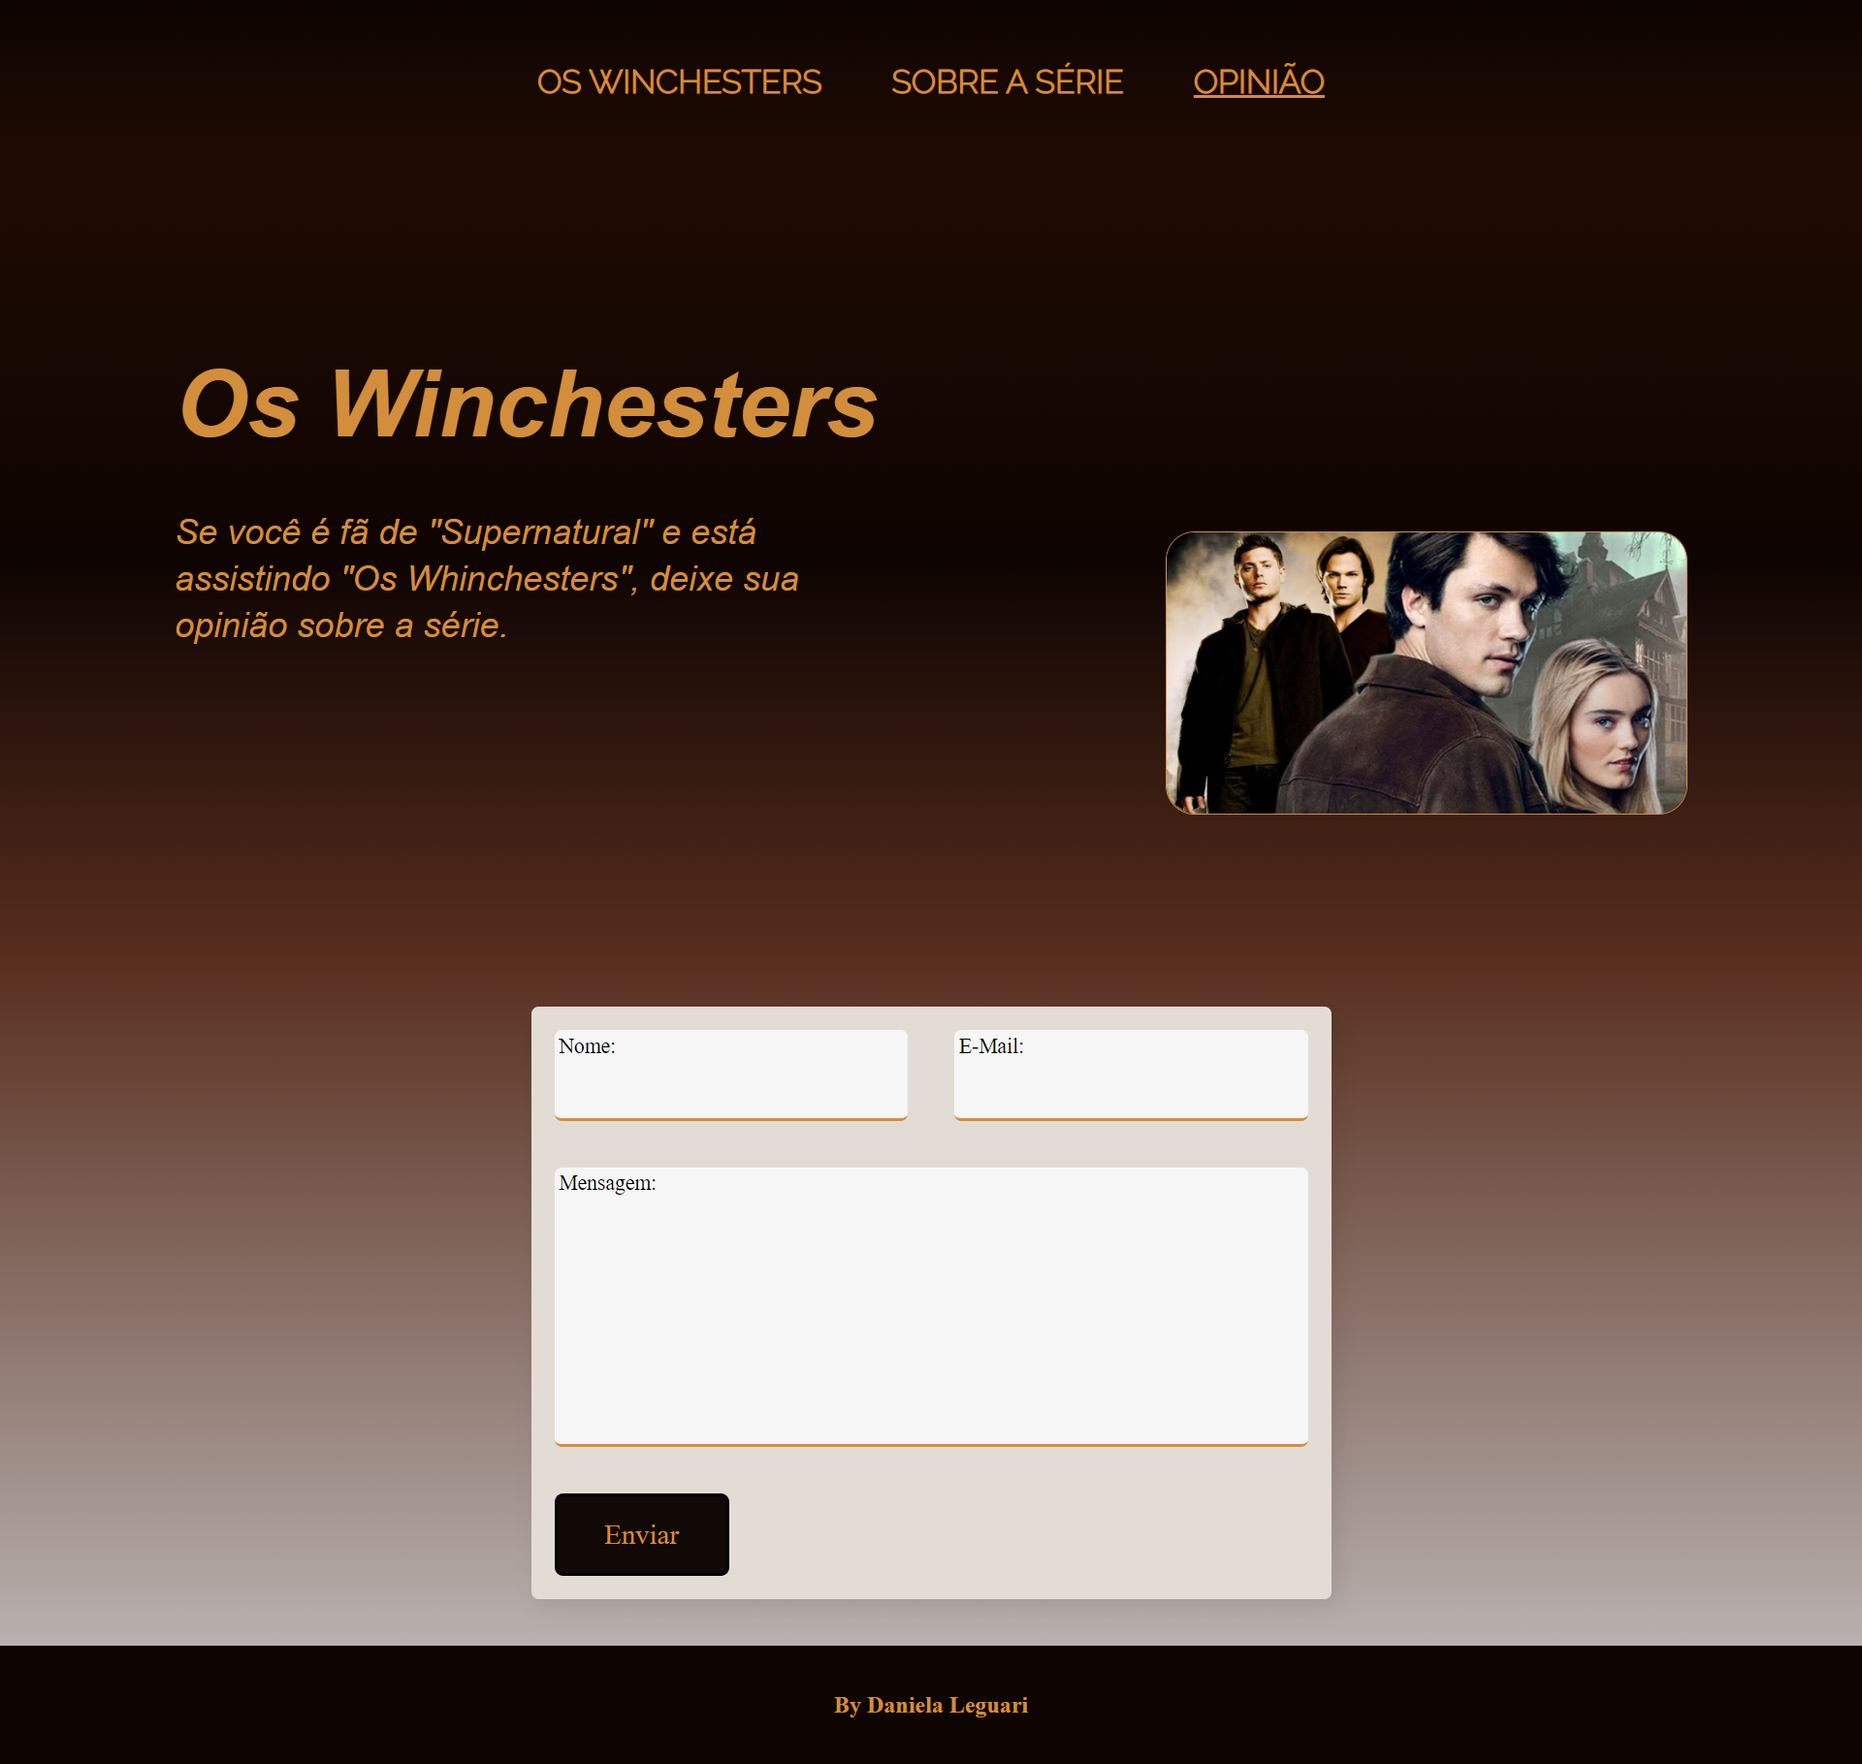
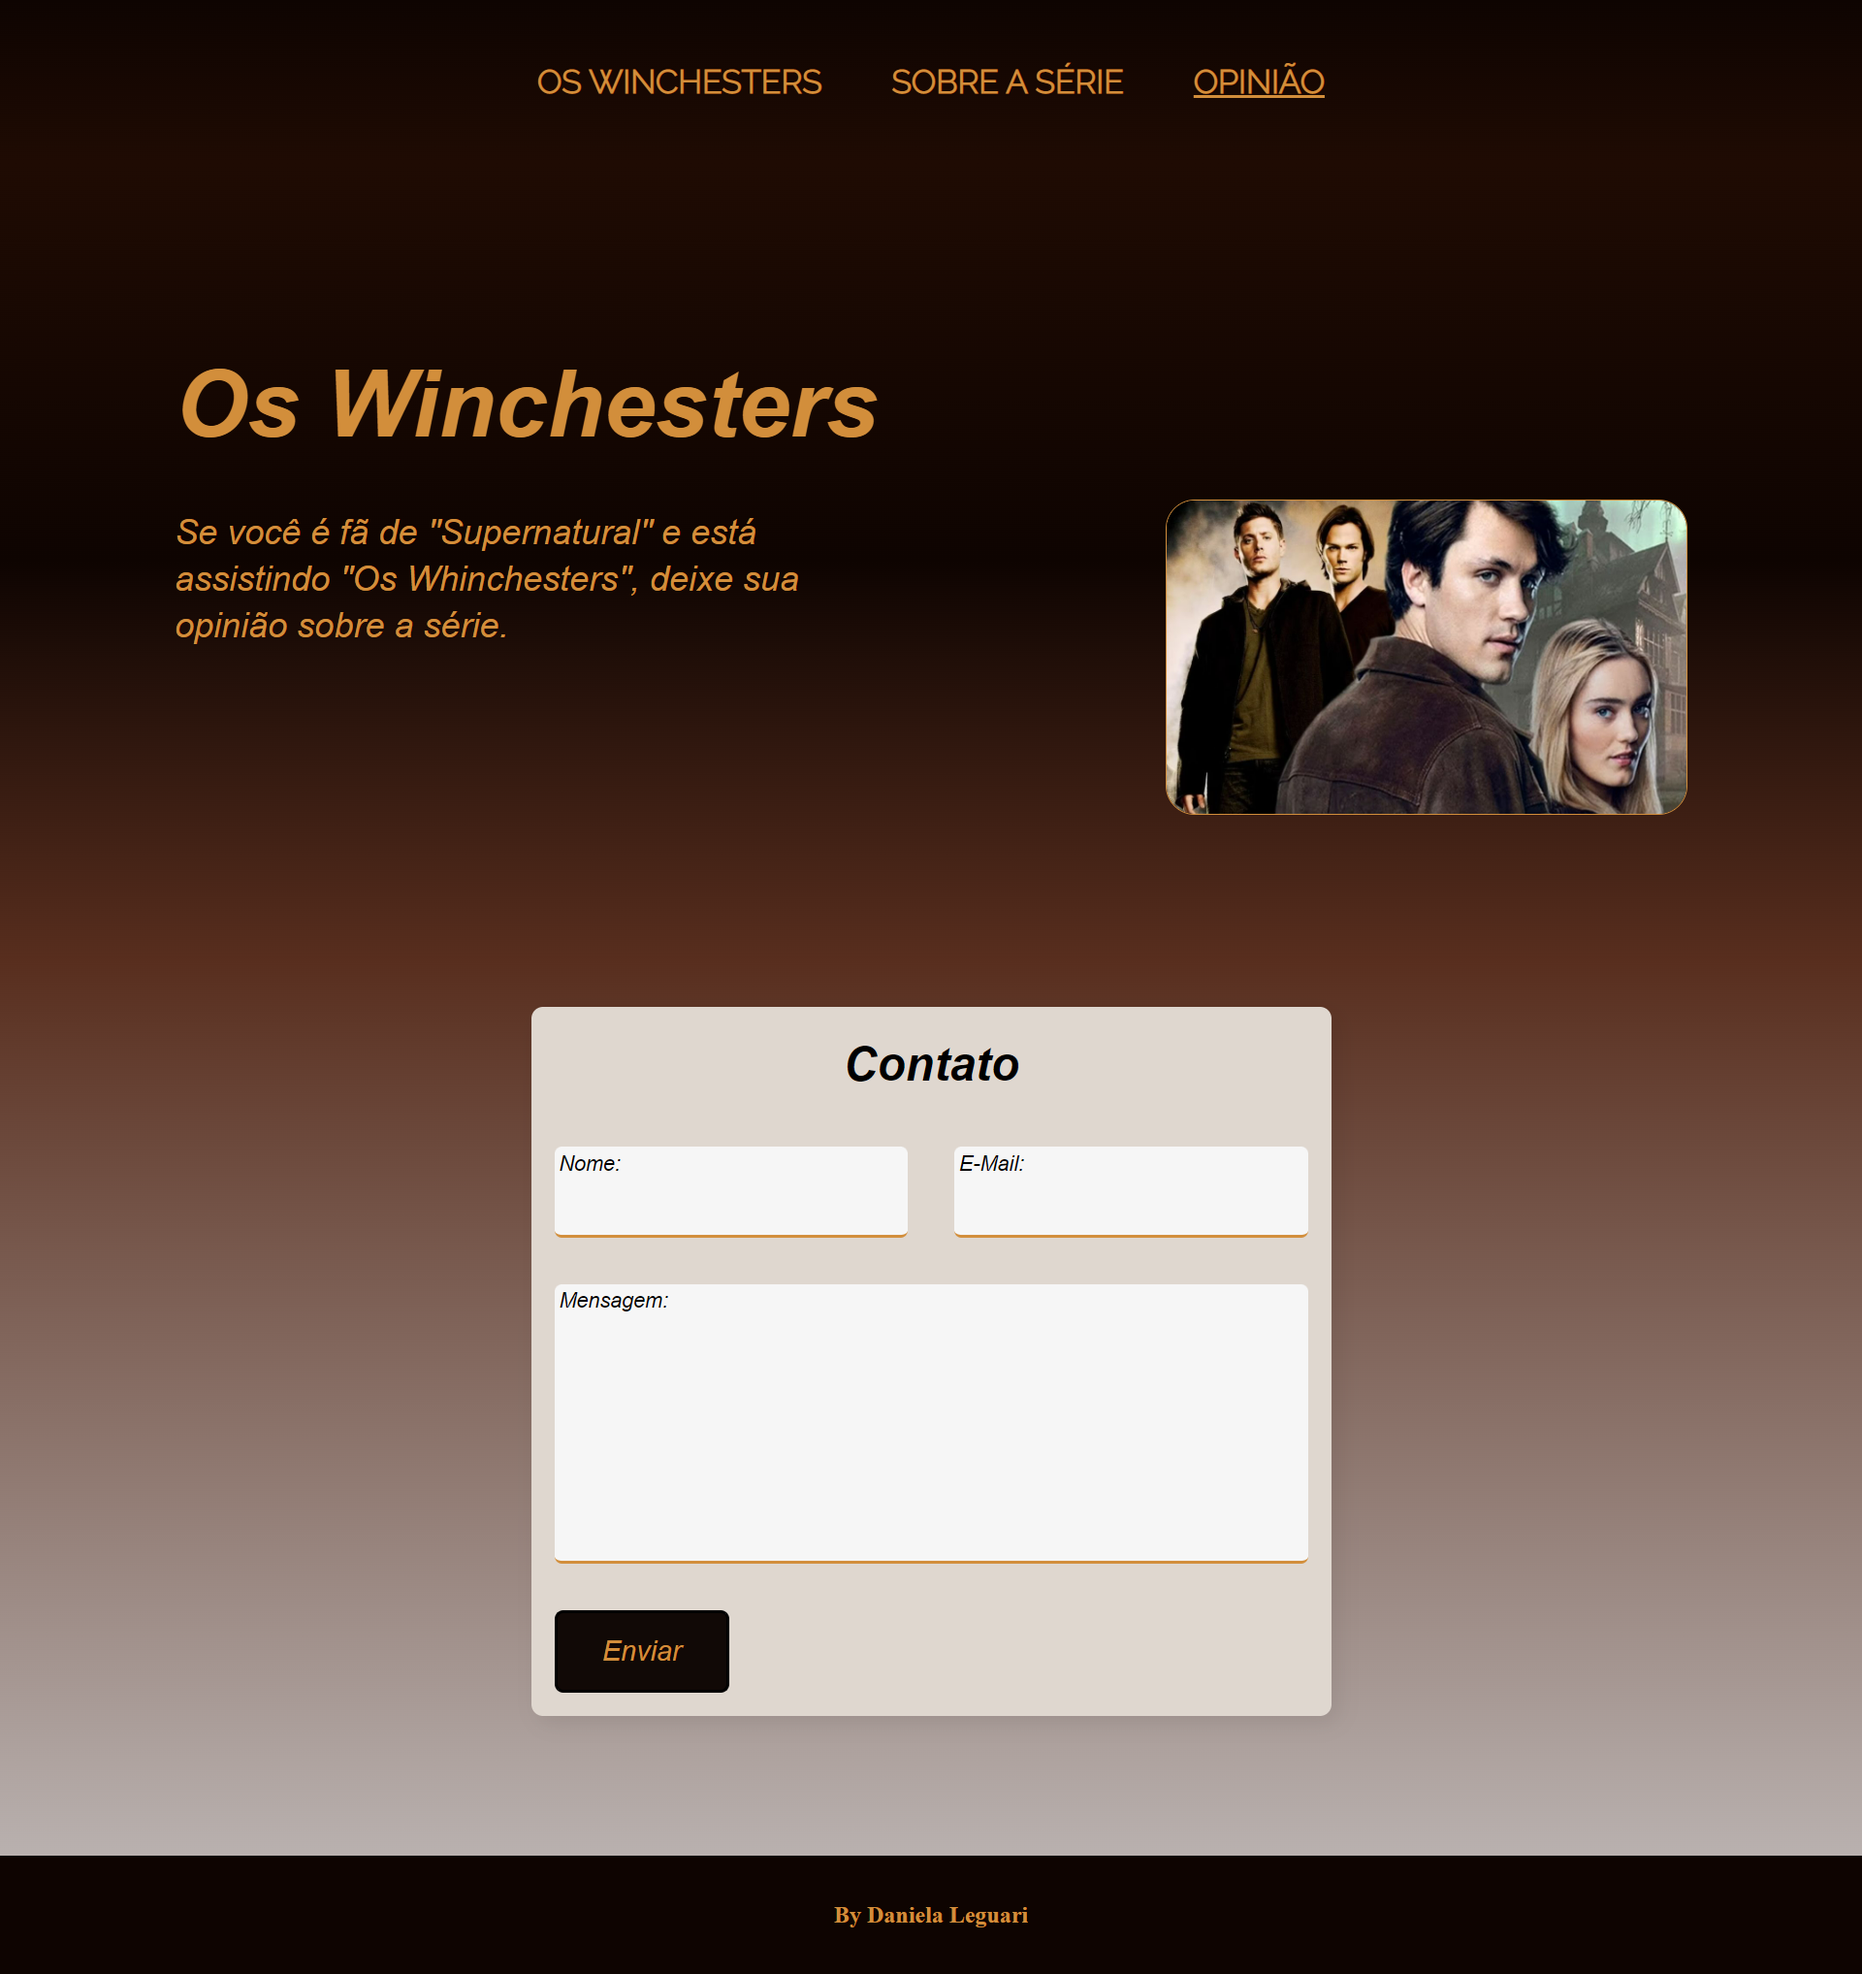
ajustes css form e readme

diff --git a/src/components/Form/Form.module.css b/src/components/Form/Form.module.css
@@ -3,6 +3,12 @@
     padding: 2rem;
 }
 
+.titulo {
+    text-align: center;
+    font-family: var(--fonte-secundaria);
+    font-style: italic;
+}
+
 .input,
 .textArea {
     border: 0;
@@ -22,14 +28,17 @@ textarea {
 .boxForm {
     max-width: 550px;
     margin: 0 auto;
-    border-radius: 5px;
-    background: rgb(227, 220, 213);
+    border-radius: 8px;
+    background: rgb(223, 215, 207);;
     box-shadow: 5px 5px 15px rgba(0, 0, 0, 0.08);
+    margin-bottom: 4rem;
 }
 
 .form {
     display: flex;
     flex-wrap: wrap;
+    font-family: var(--fonte-secundaria);
+    font-style: italic;
 }
 
 .formItem {
@@ -78,11 +87,11 @@ textarea {
 
 .formItem .label {
     position: absolute;
-  top: 2em;
-  left: 2em;
-  text-transform: capitalize;
-  transition: all 0.3s;
-  padding: 0.3rem;
+    top: 2em;
+    left: 2em;
+    text-transform: capitalize;
+    transition: all 0.3s;
+    padding: 0.3rem;
 }
 
 .formItem .button {

diff --git a/src/components/Form/index.tsx b/src/components/Form/index.tsx
@@ -20,6 +20,7 @@ const Form = () => {
     return (
         <main className={styles.body}>
             <div className={styles.boxForm}>
+                <h1 className={styles.titulo}>Contato</h1>
                 <form className={styles.form} onSubmit={handleSubmit(onSubmit)}>
                     <div className={`${styles.formItem} ${styles.colResponsive}`}>
                         <input className={styles.input} {...register("firstName")} />
